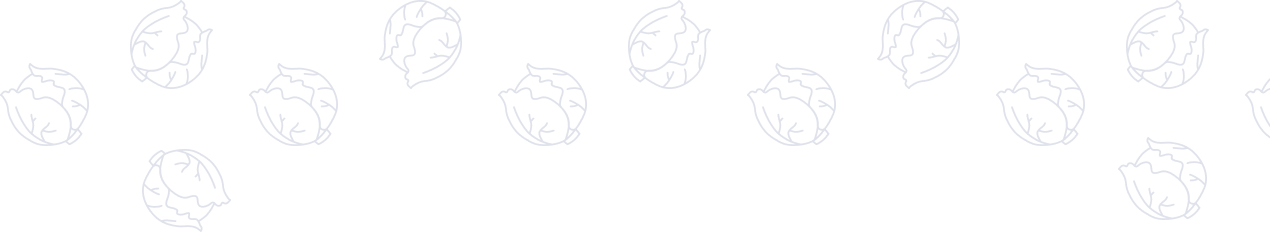
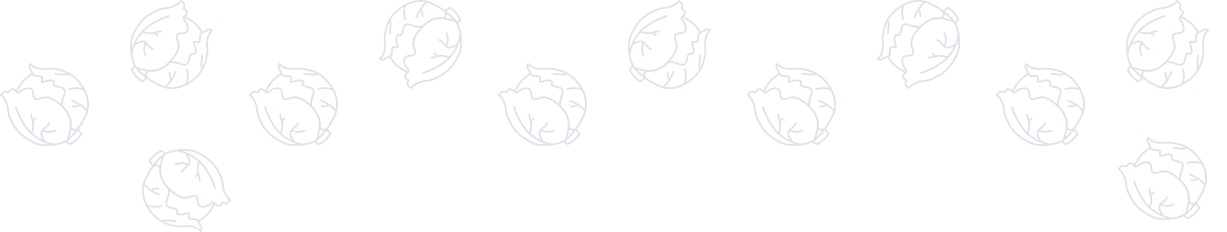
animation

diff --git a/src/components/Background/Background.module.css b/src/components/Background/Background.module.css
@@ -66,17 +66,18 @@ return (
     background-size: 100% 526px, auto;
     background-position: 0 0, bottom 20px left 50%;
     background-repeat: no-repeat, repeat-x;
-    /* animation: kapusta-bottom-desctop-secondary 20s linear infinite; */
+    animation: kapusta-bottom-desctop-secondary 30s linear infinite;
   }
 
   .mainBgPrimary {
     background-image: url(../../images/cabagge/kapusta_small.png),
       url(../../images/cabagge/kapusta_main.png),
       url(../../images/cabagge/rectangle.png);
+    animation: kapusta-main-desktop 30s linear infinite;
   }
 }
 
-/* @keyframes kapusta-bottom-desctop-secondary {
+@keyframes kapusta-bottom-desctop-secondary {
   0% {
     background-position: 0 0, bottom 20px left 50%;
   }
@@ -86,4 +87,19 @@ return (
   100% {
     background-position: 0 0, bottom 20px left 50%;
   }
-} */
+}
+
+@keyframes kapusta-main-desktop {
+  0% {
+    background-position: left calc(50% - 311px) bottom 100px, left top 28px,
+      left top;
+  }
+  50% {
+    background-position: left calc(50% - 311px) bottom 100px, left 100% top 28px,
+      left top;
+  }
+  100% {
+    background-position: left calc(50% - 311px) bottom 100px, left top 28px,
+      left top;
+  }
+}
